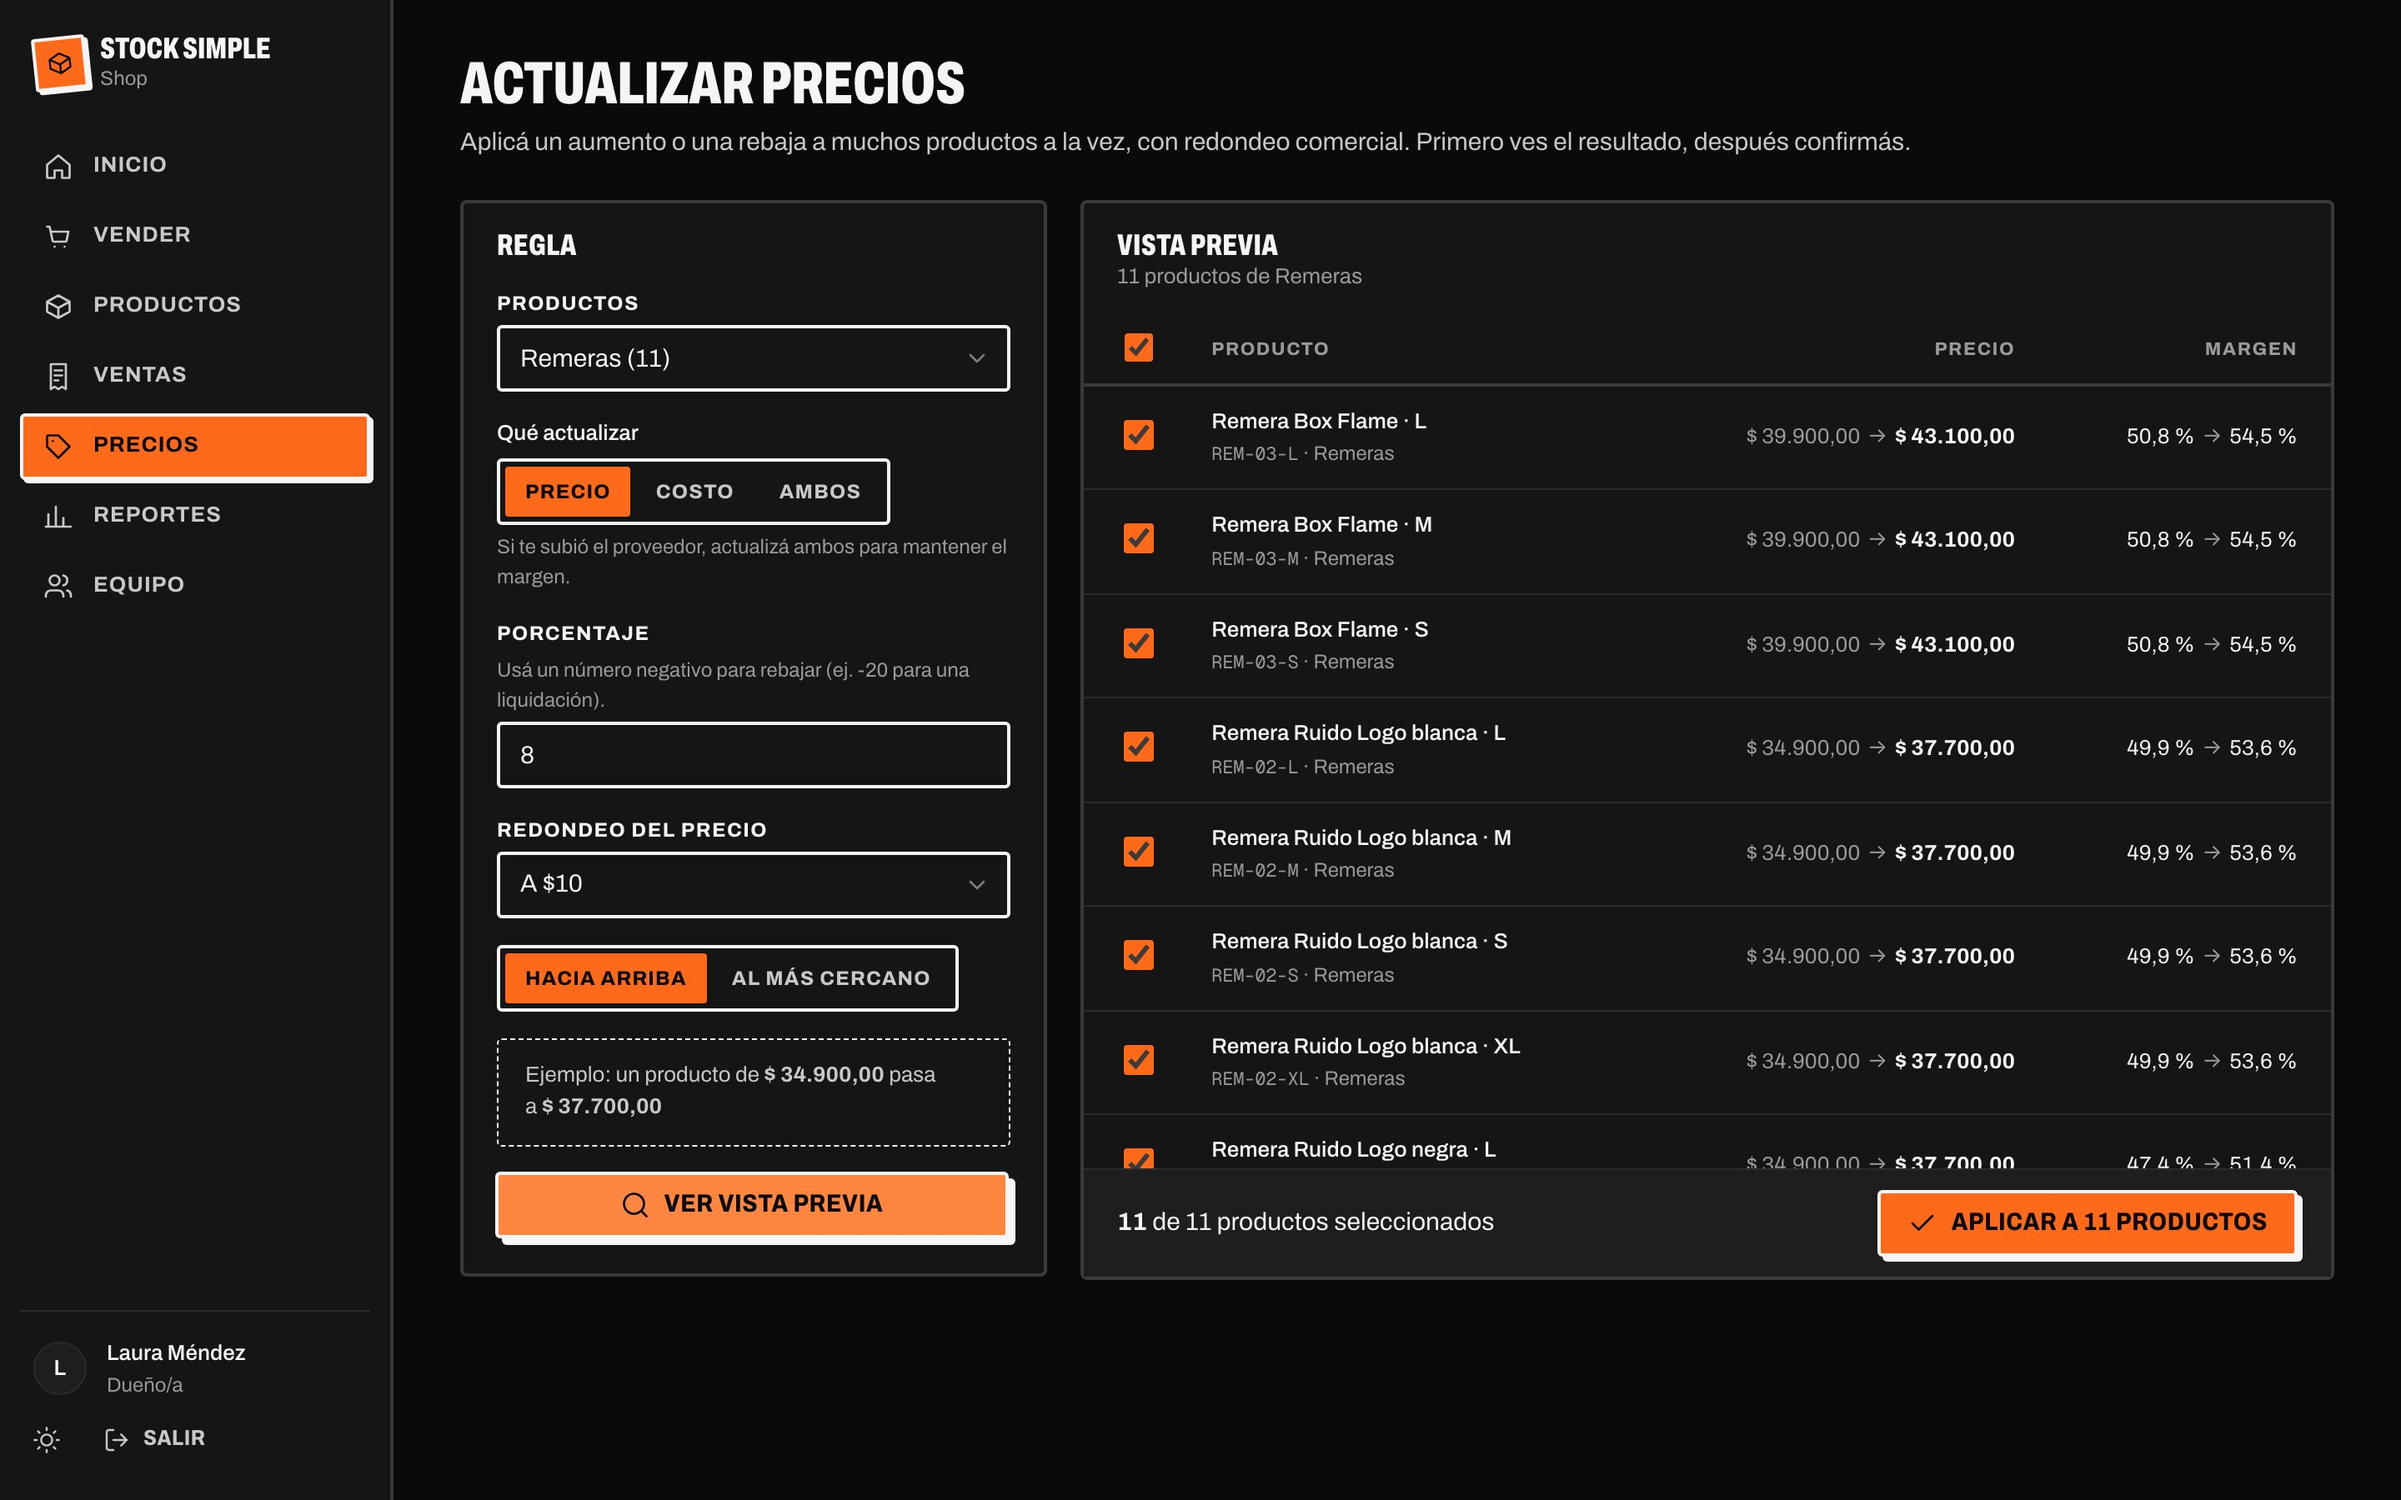
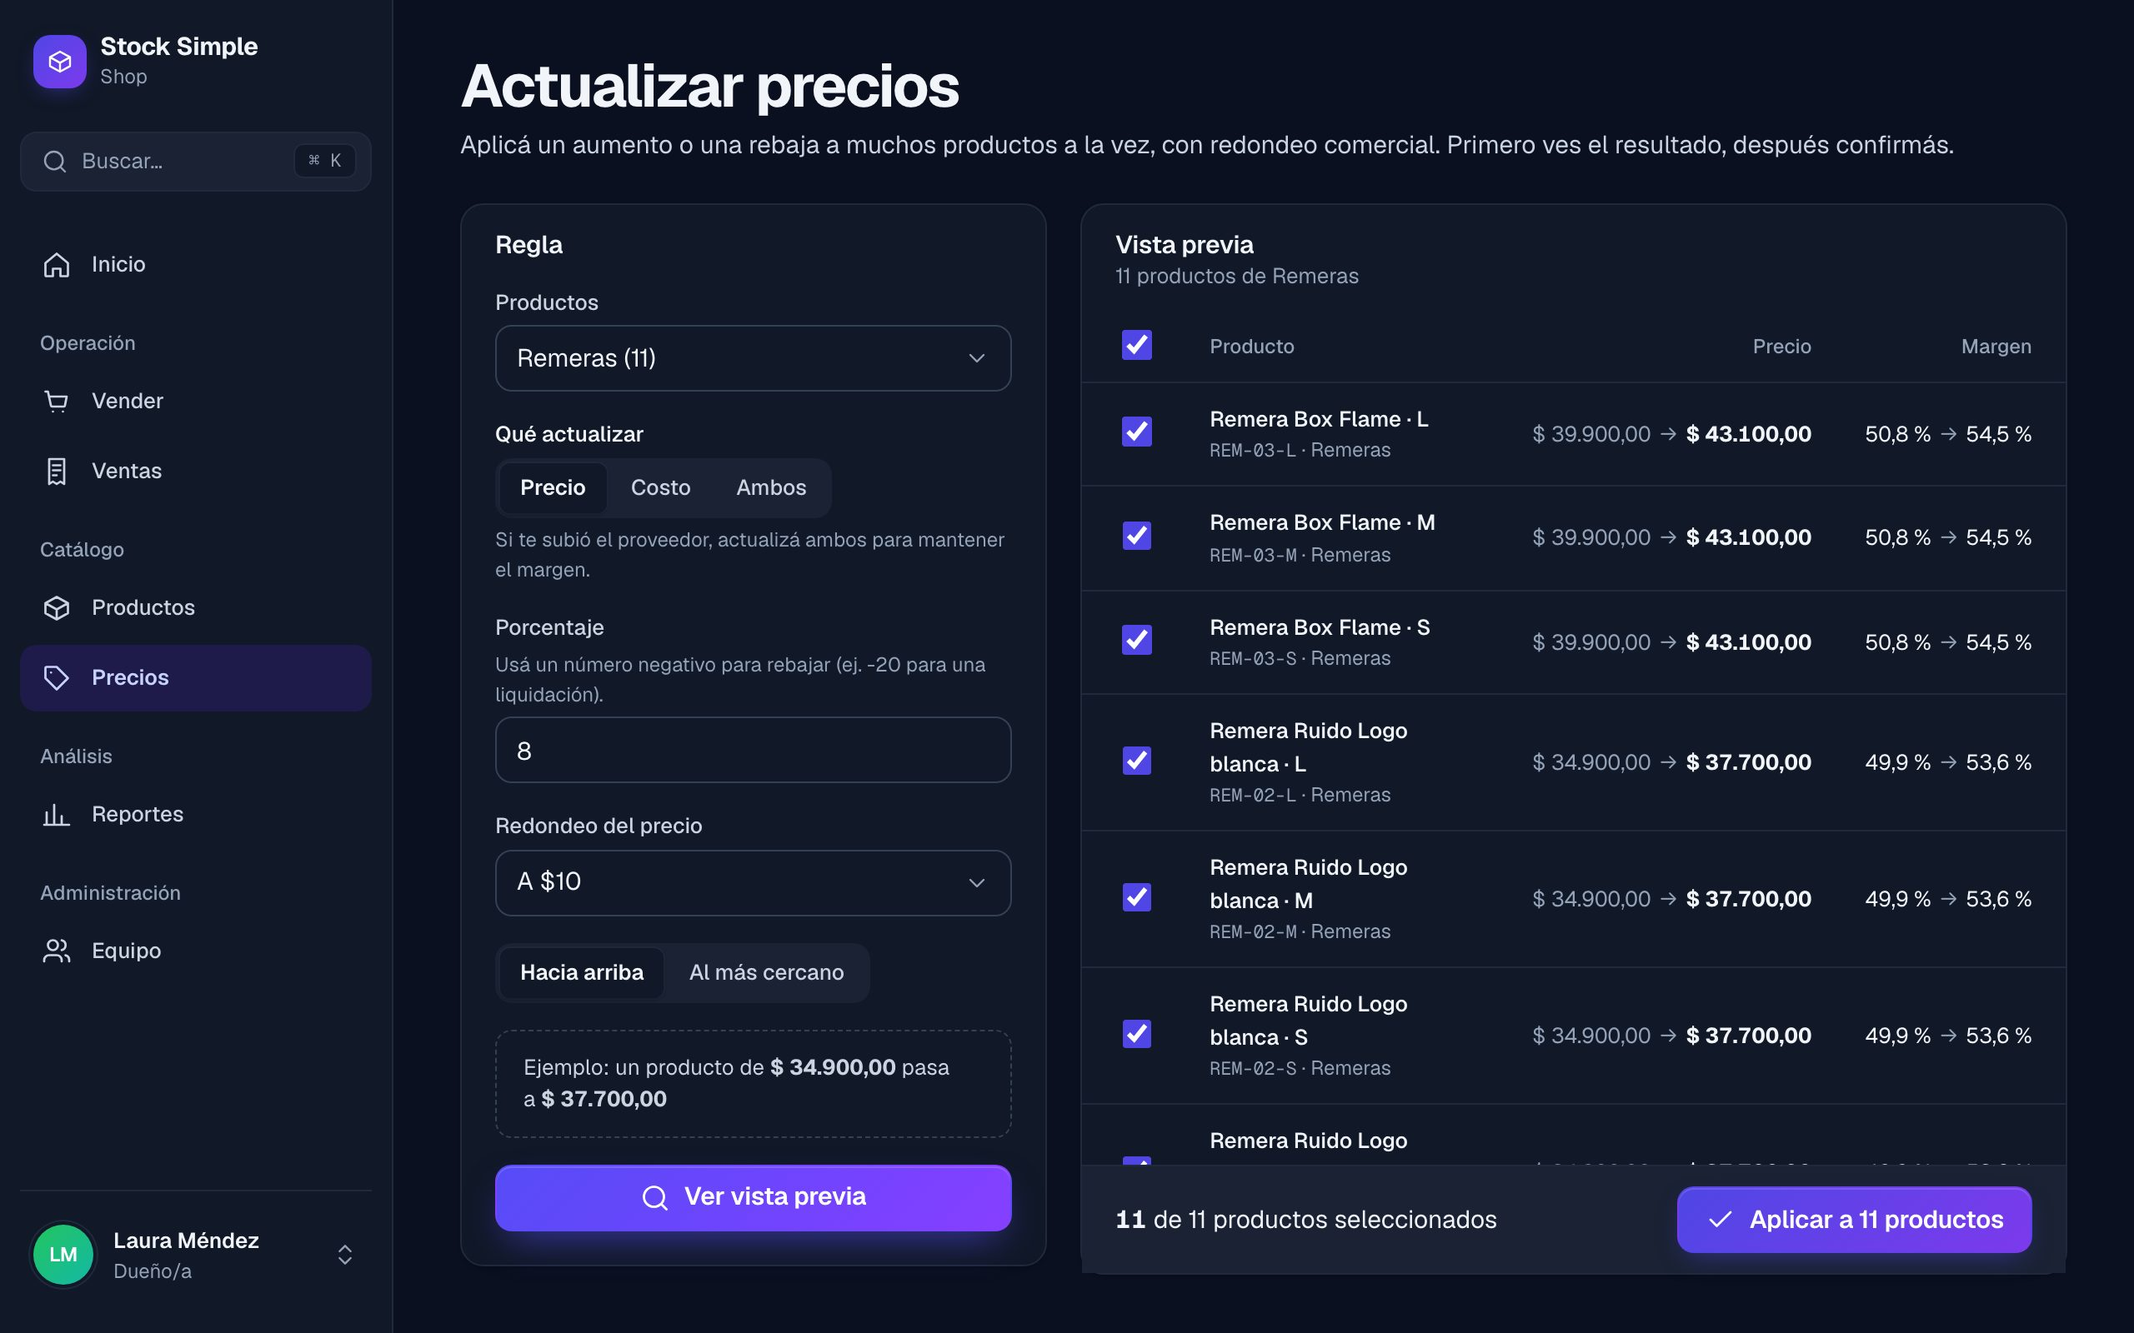
Refresh README screenshots and features for the new design
Regenerate all screenshots with the indigo redesign and add products, import and command palette captures. Update the tagline, badge color, feature list, test count and release notes section. Also restyle the mobile POS cart bar, which still used the old inverted colors and hard offset shadow.

diff --git a/apps/web/src/features/pos/PosPage.module.css b/apps/web/src/features/pos/PosPage.module.css
@@ -279,11 +279,11 @@ kbd {
     justify-content: space-between;
     gap: var(--space-3);
     padding: var(--space-3) var(--space-3) var(--space-3) var(--space-5);
-    border: var(--stroke) solid var(--color-ink);
+    border: 1px solid var(--color-border);
     border-radius: var(--radius-lg);
-    background: var(--color-ink);
-    color: var(--color-page);
-    box-shadow: 4px 4px 0 var(--color-accent);
+    background: var(--color-surface);
+    color: var(--color-ink);
+    box-shadow: var(--shadow-lg);
   }
 
   .mobileBar small {

diff --git a/README.md b/README.md
@@ -1,9 +1,9 @@
 # Stock Simple
 
-**Stock, caja y precios para tiendas chicas.** Punto de venta rápido, stock por talle con historial de cada movimiento, aumentos masivos de precios con redondeo comercial y reportes de ventas y márgenes. Monorepo full stack con **React 19 + NestJS + PostgreSQL**.
+**Vendé, controlá y decidí con datos.** Ventas, stock, precios y reportes en un solo lugar para tiendas chicas: punto de venta rápido, stock por talle con historial de cada movimiento, importación y conteo de inventario con planillas, aumentos masivos con redondeo comercial y reportes exportables. Monorepo full stack con **React 19 + NestJS + PostgreSQL**.
 
 [![CI](https://github.com/adrianGette/stock-simple/actions/workflows/ci.yml/badge.svg)](https://github.com/adrianGette/stock-simple/actions/workflows/ci.yml)
-[![Demo en vivo](https://img.shields.io/badge/demo-en%20vivo-f25200)](https://stock-simple-adrian.netlify.app)
+[![Demo en vivo](https://img.shields.io/badge/demo-en%20vivo-4f46e5)](https://stock-simple-adrian.netlify.app)
 
 ### 👉 [Ver la demo en vivo](https://stock-simple-adrian.netlify.app)
 
@@ -25,8 +25,16 @@ Entrá con los botones de demo del login (contraseña `demo1234`). Cada rol ve u
     <td width="50%"><img src="docs/screenshots/cobro.jpg" alt="Cobro con cálculo de vuelto" /><p align="center"><b>Cobro</b>: medios de pago y cálculo de vuelto</p></td>
   </tr>
   <tr>
+    <td width="50%"><img src="docs/screenshots/productos.jpg" alt="Catálogo de productos ordenado por margen" /><p align="center"><b>Productos</b>: filtros, orden por cualquier columna y exportación</p></td>
+    <td width="50%"><img src="docs/screenshots/importar.jpg" alt="Importación de productos desde una planilla con vista previa" /><p align="center"><b>Importar</b>: vista previa de cada cambio antes de guardar</p></td>
+  </tr>
+  <tr>
     <td width="50%"><img src="docs/screenshots/precios.jpg" alt="Actualización masiva de precios con vista previa" /><p align="center"><b>Aumentos masivos</b>: vista previa con el margen antes y después</p></td>
-    <td width="50%"><img src="docs/screenshots/reportes.jpg" alt="Reportes de ventas" /><p align="center"><b>Reportes</b>: ventas por día, categoría y medio de pago</p></td>
+    <td width="50%"><img src="docs/screenshots/reportes.jpg" alt="Reportes de ventas" /><p align="center"><b>Reportes</b>: ventas por día, categoría y medio de pago, exportables a CSV</p></td>
+  </tr>
+  <tr>
+    <td width="50%"><img src="docs/screenshots/login.jpg" alt="Pantalla de ingreso con cuentas de demo" /><p align="center"><b>Ingreso</b>: una cuenta de demo por rol</p></td>
+    <td width="50%"><img src="docs/screenshots/buscador.jpg" alt="Buscador global abierto con Ctrl+K" /><p align="center"><b>Buscador</b>: productos y pantallas con <kbd>Ctrl</kbd> + <kbd>K</kbd></p></td>
   </tr>
   <tr>
     <td width="50%"><img src="docs/screenshots/inicio-light.jpg" alt="Tablero en modo claro" /><p align="center"><b>Modo claro</b></p></td>
@@ -45,18 +53,20 @@ Las tiendas chicas de ropa y skate llevan el stock en un cuaderno o en Excel. No
 - **Una sola fuente de verdad:** web y API validan con los mismos esquemas Zod y calculan con las mismas funciones. La vista previa de un aumento muestra exactamente lo que se va a guardar ([ADR 0001](docs/adr/0001-monorepo-con-paquete-compartido.md)).
 - **Seguridad:** permisos por rol aplicados en el servidor, aislamiento entre comercios, refresh token rotativo en cookie httpOnly con detección de reutilización, rate limiting, CSP y modo demo que impide tomar el control de las cuentas compartidas. Detalle y riesgos aceptados en [SECURITY.md](SECURITY.md).
 - **Dinero en centavos enteros**, sin errores de punto flotante ([ADR 0002](docs/adr/0002-dinero-en-centavos-enteros.md)).
-- **Más de 80 tests** (unitarios, de API contra Postgres real y Playwright en escritorio y celular) que corren en cada push con GitHub Actions.
+- **Unos 200 tests** (unitarios, de API contra Postgres real y Playwright en escritorio y celular) que corren en cada push con GitHub Actions.
 - **Desplegado gratis** en Netlify + Render + Neon, con proxy de mismo origen y manejo del "servidor dormido" ([guía de deploy](docs/DEPLOY.md)).
 
 ## Funcionalidades
 
 - **Punto de venta:** búsqueda instantánea y soporte para lector de código de barras (escanear + Enter agrega el producto). Carrito que sobrevive a una recarga, cálculo de vuelto con atajos de billetes y cuatro medios de pago. Barra de cobro fija en el celular.
-- **Productos y stock:** catálogo con filtros guardados en la URL. Ingresos de mercadería (con actualización de costo), pérdidas con motivo y recuentos físicos. Cada movimiento queda en un libro auditable.
+- **Productos y stock:** catálogo con filtros y orden por cualquier columna guardados en la URL. Ingresos de mercadería (con actualización de costo), pérdidas con motivo y recuentos físicos. Cada movimiento queda en un libro auditable.
+- **Planillas (Excel, Google Sheets o LibreOffice):** exportá el catálogo a CSV, editalo y volvé a importarlo para crear o actualizar productos en masa, con una vista previa de cada cambio antes de guardar. El conteo de inventario se carga igual: se imprime la planilla, se anota lo contado y se aplican solo las diferencias.
 - **Precios:** "subí 8 % todas las remeras y redondeá a $100". Vista previa con el margen antes y después, posibilidad de excluir productos e historial de precios por producto.
 - **Ventas:** historial por período, detalle con costo y ganancia (según el rol) y anulación con motivo que devuelve el stock.
-- **Reportes:** ventas por día, ganancia bruta, ticket promedio, ventas por categoría y por medio de pago, y ranking de productos.
-- **Equipo:** alta de usuarios, roles y desactivación (que cierra sus sesiones al instante).
-- **Diseño moderno y limpio:** tipografía Geist, grises *slate*, bordes finos, sombras suaves y esquinas redondeadas. El acento índigo, con un degradado índigo → violeta en las acciones principales y los títulos destacados, marca solo los puntos de interacción. Modo claro y oscuro.
+- **Reportes:** ventas por día, ganancia bruta, ticket promedio, ventas por categoría y por medio de pago, y ranking de productos. Cada uno se descarga en CSV.
+- **Equipo:** alta de usuarios, roles y desactivación (que cierra sus sesiones al instante). Cada usuario puede subir su foto de perfil o volver a sus iniciales.
+- **Buscador global:** <kbd>Ctrl</kbd> + <kbd>K</kbd> (<kbd>⌘</kbd> + <kbd>K</kbd> en Mac) busca productos y pantallas desde cualquier lugar.
+- **Diseño moderno y limpio:** tipografía Geist, grises *slate*, bordes finos, sombras suaves y esquinas redondeadas. El acento índigo, con un degradado índigo → violeta en las acciones principales y los títulos destacados, marca solo los puntos de interacción.
 - Modo claro y oscuro, diseño responsive y accesible: contraste AA, navegación por teclado, gráficos con vista de tabla y estados que nunca dependen solo del color.
 
 ### Datos de la demo
@@ -180,7 +190,7 @@ Guía paso a paso en **[docs/DEPLOY.md](docs/DEPLOY.md)**. Todo en planes gratui
 - **Web → Netlify** (`netlify.toml`): build del workspace web y SPA routing. Netlify reenvía `/api/*` a la API, así la cookie de sesión es first-party.
 - **API → Render** (`render.yaml`): web service gratuito, con migraciones al arrancar y health check en `/api/health`.
 - **Base → Neon**: Postgres gratuito que no vence (la base gratuita de Render se borra a los 30 días).
-- **Releases manuales**: los PRs se mergean a `main` (copia de prueba gratis en Netlify) y solo se publica lo que llega a `production`, con un PR de release. Así se agrupan cambios y se cuidan los créditos del plan gratuito.
+- **Releases**: los PRs se mergean a `main` (copia de prueba gratis en Netlify) y solo se publica lo que llega a `production`, con un PR de release. Al mergearlo, GitHub Actions crea el tag y el release con notas agrupadas por tipo de cambio.
 
 En el plan gratuito la API se duerme sin uso. La web lo resuelve: despierta el servidor apenas se abre, muestra un aviso mientras tanto y reintenta sola las lecturas. Las escrituras no se reintentan automáticamente para no duplicarlas.
 
@@ -191,7 +201,6 @@ Variables de la API: ver [`apps/api/.env.example`](apps/api/.env.example). Si la
 - Modo sin conexión para el POS (cola de ventas con la misma clave de idempotencia).
 - Variantes agrupadas (talle y color bajo un mismo artículo; hoy cada talle es un SKU propio) y combos, como un skate armado con sus partes.
 - Proveedores y órdenes de compra.
-- Exportar reportes a CSV.
 
 ## Autor
 
